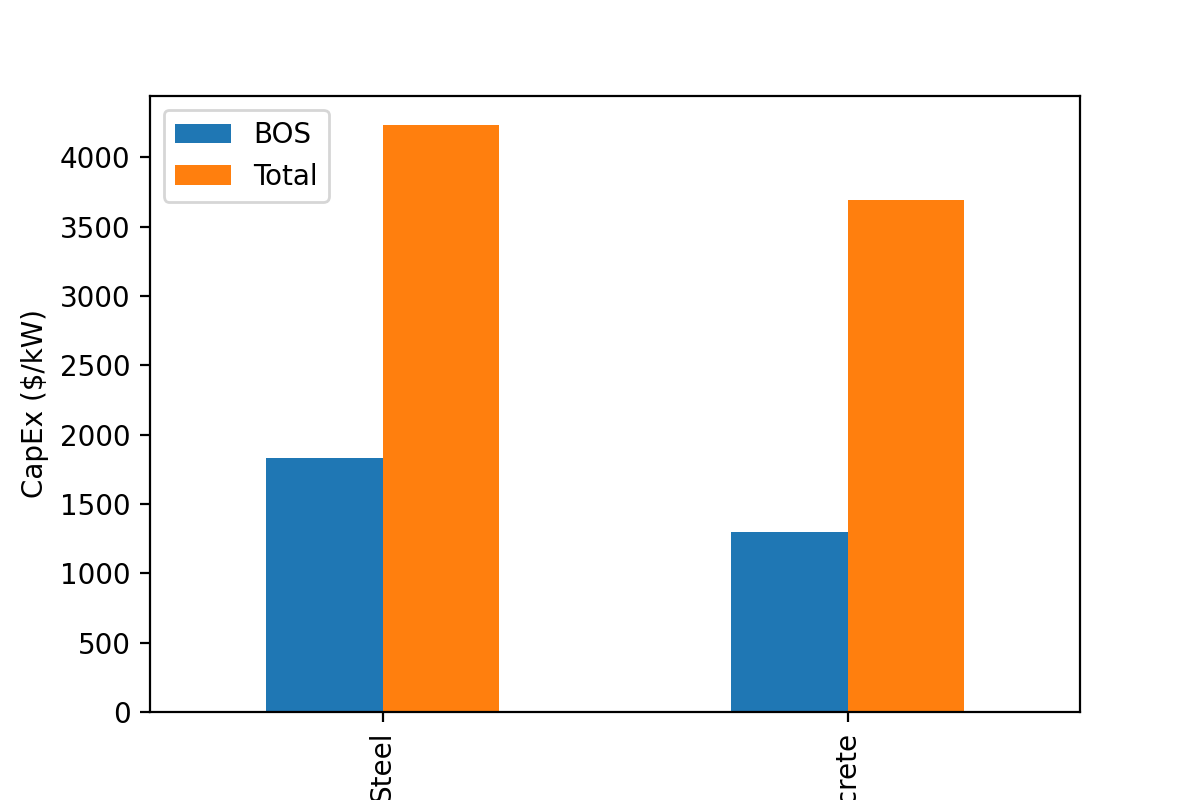
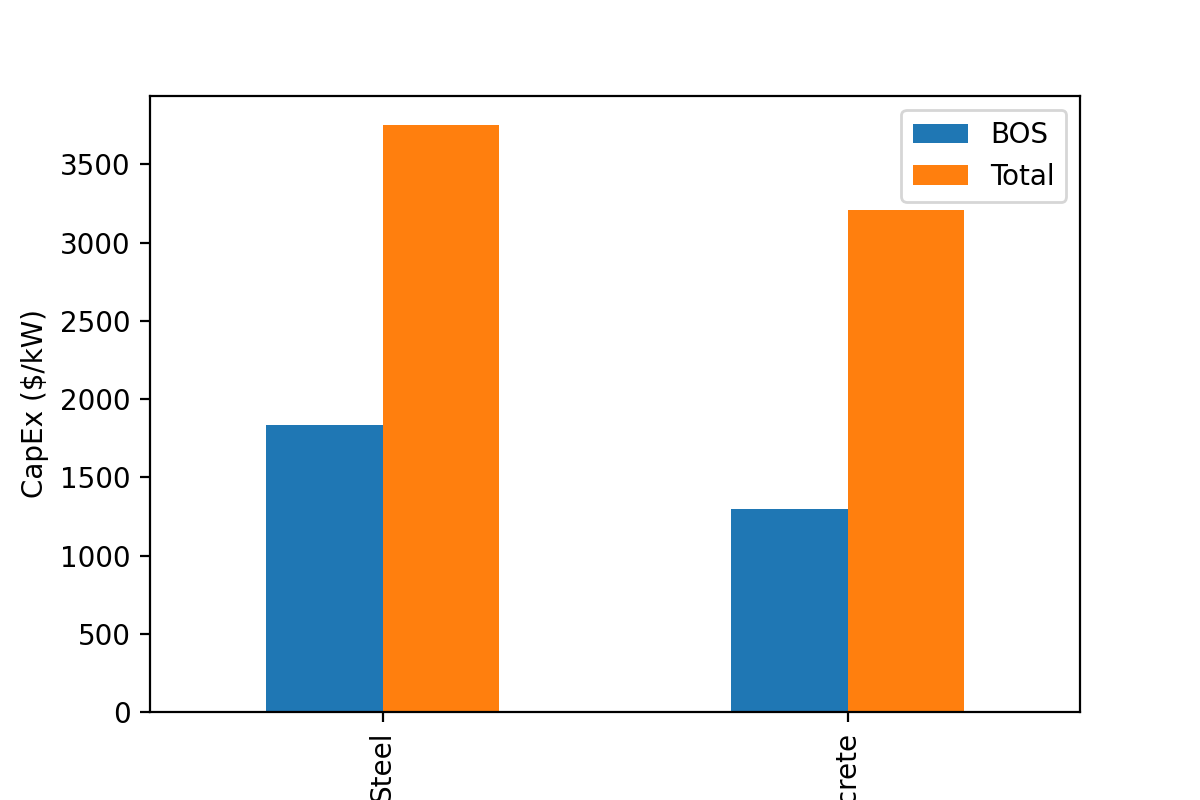
Updated Opex, NCF, FCR, turbine capex to match aqua Ventus report

diff --git a/create_plots.py b/create_plots.py
@@ -45,8 +45,6 @@ INSTALL = pd.read_csv("outputs/installation_times.csv").rename(columns={
 INSTALL = INSTALL.set_index("year")
 INSTALL.columns = INSTALL.columns.map(lambda x: SCENARIO_MAP[x])
 
-print(INSTALL)
-
 def total_capex_plots(df):
     """"""
 
@@ -72,10 +70,10 @@ def total_capex_plots(df):
 
     fig.savefig(os.path.join(FIGDIR, "total_per_kW.png"))
 
-    # LCOE
-    opex = 130
-    fcr = .058
-    ncf = 0.38
+    # LCOE - Match Aqua Ventus report (https://www.nrel.gov/docs/fy20osti/75618.pdf)
+    opex = 38
+    fcr = .0718
+    ncf = 0.5086
 
     fig = plt.figure(figsize=(6, 4), dpi=200)
     ax = fig.add_subplot(111)

diff --git a/configs.py b/configs.py
@@ -35,7 +35,7 @@ US_east_coast = {
         # "ballast_cost_rate": "$/tonne (optional, default: 150)"
     },
     "project_parameters": {
-        "turbine_capex": 1500
+        "turbine_capex": 1020
     },
     "turbine": "15MW",
     "weather": "US_east_coast"
